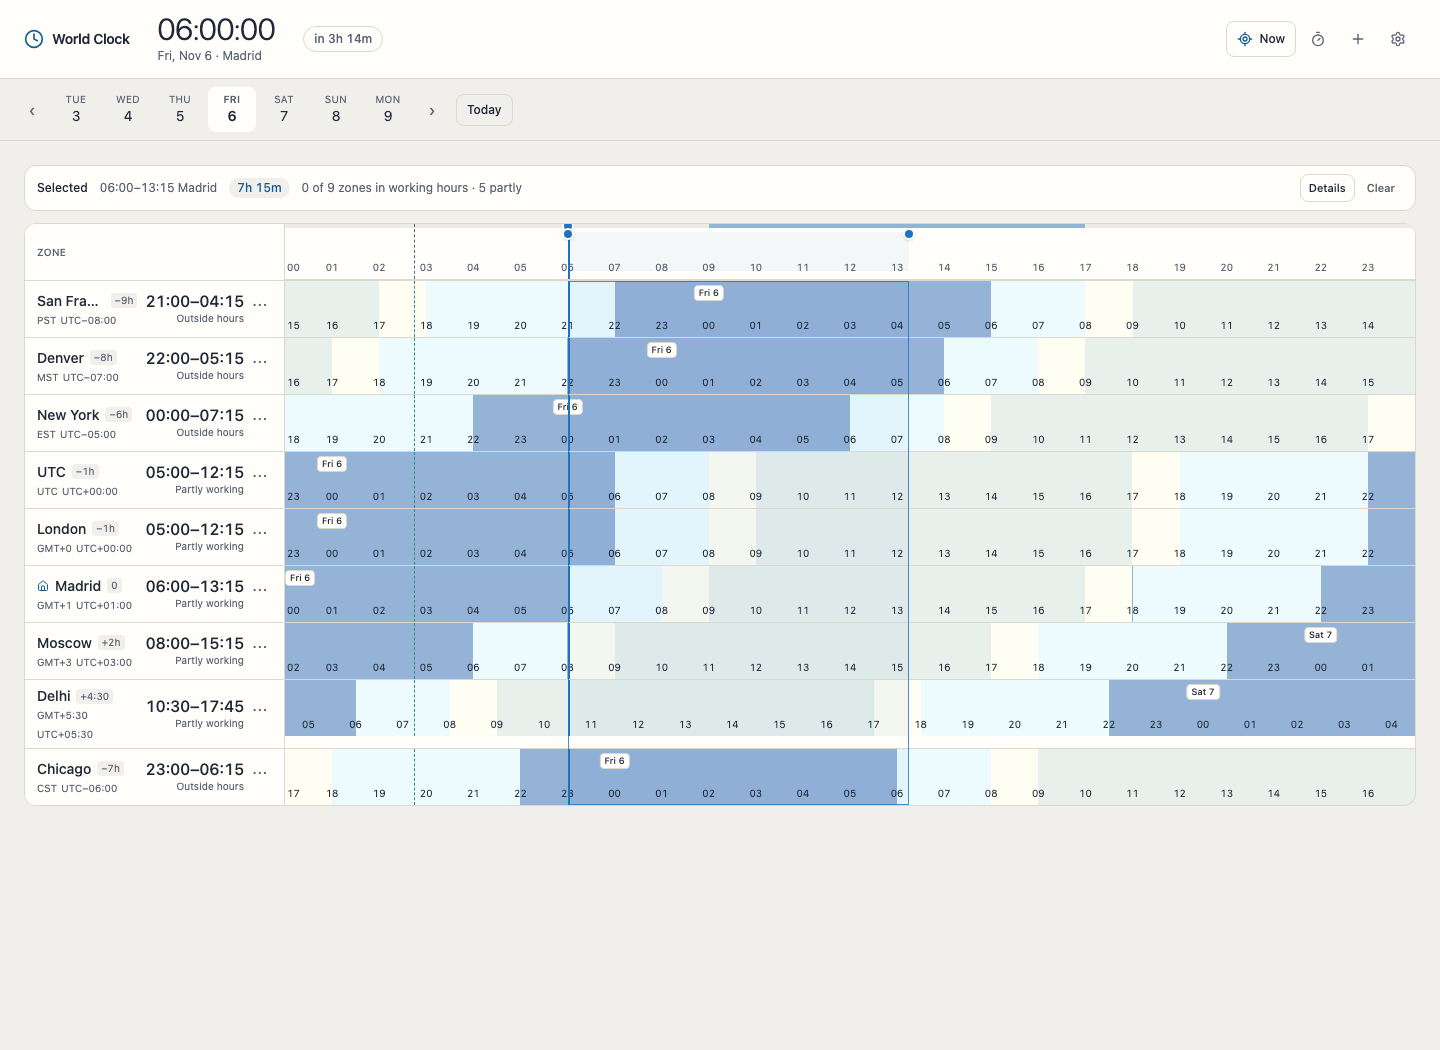
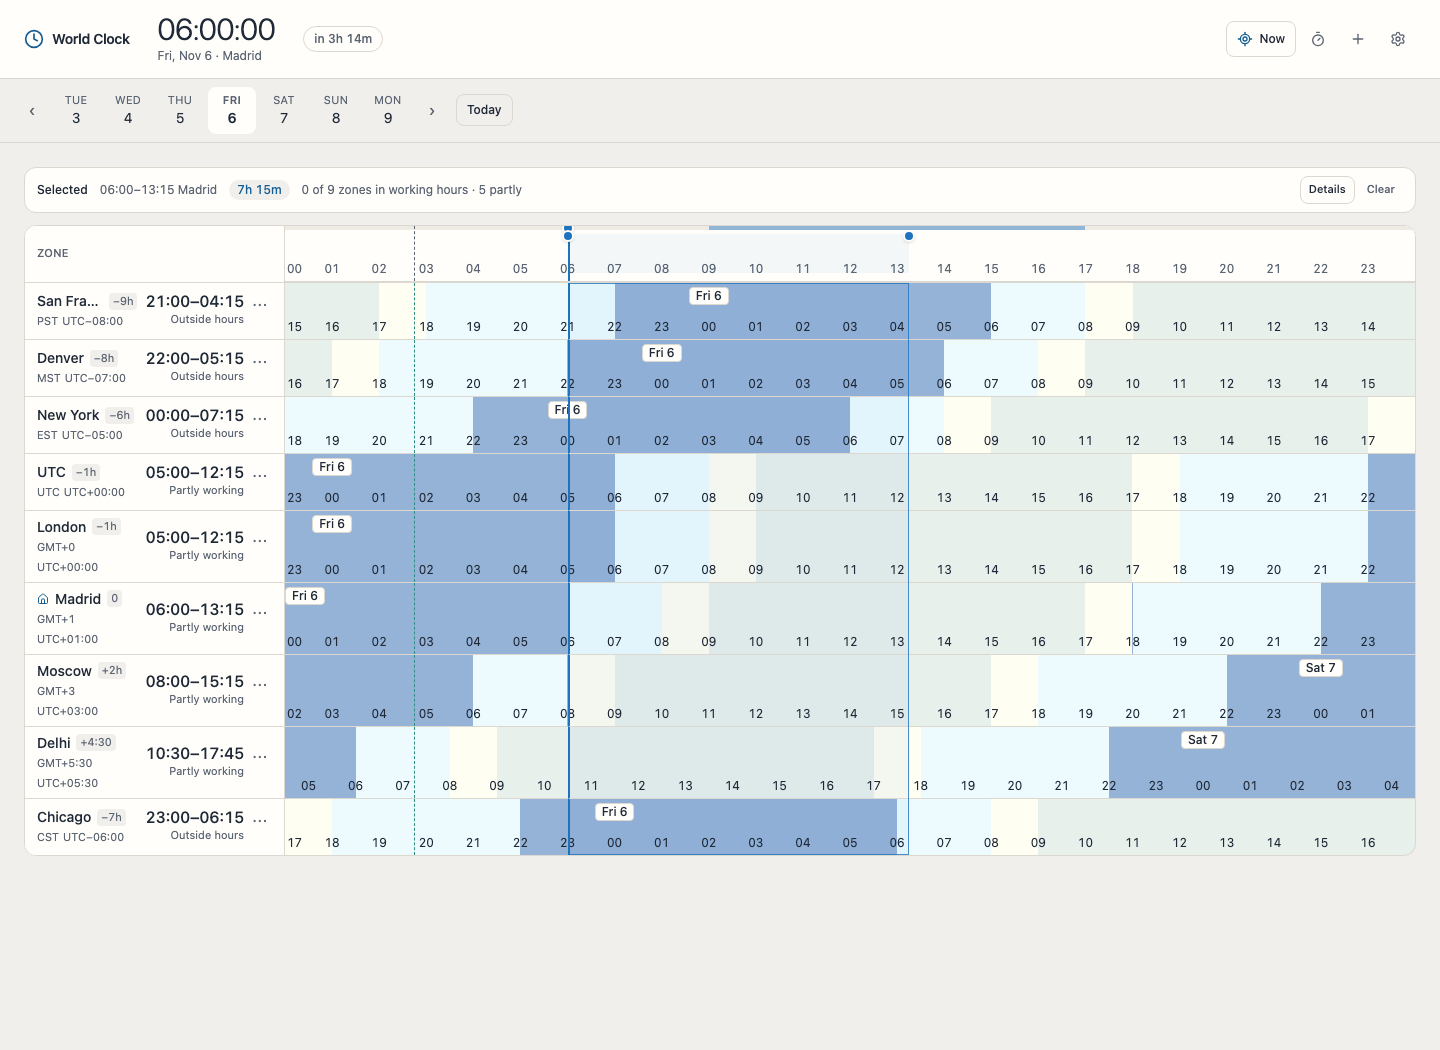
fix: enlarge timeline labels and mobile row headers
Raise hour labels and day markers to 12px, and row metadata to 11px. On narrow screens, wrap the time block below the zone name, preserve enabled metadata, and stretch timelines to the full row height.

diff --git a/src/lib/components/ZoneRow.svelte b/src/lib/components/ZoneRow.svelte
@@ -95,10 +95,10 @@
 >
   <div
     role="gridcell"
-    class="border-border bg-surface-raised sticky left-0 z-20 flex w-[120px] shrink-0 items-center justify-between gap-2 border-r px-2 py-1.5 sm:w-[260px] sm:px-3"
+    class="border-border bg-surface-raised sticky left-0 z-20 flex w-[120px] shrink-0 flex-wrap content-center items-center justify-between gap-x-2 gap-y-0.5 border-r px-2 py-1.5 sm:w-[260px] sm:flex-nowrap sm:px-3"
     title={`${model.timeZone} · ${formatUtcOffset(model.offsetMinutes)}`}
   >
-    <div class="min-w-0">
+    <div class="w-full min-w-0 sm:w-auto sm:flex-1">
       <div class="flex items-center gap-1.5">
         {#if isHome}
           <House class="text-accent-text size-3 shrink-0" aria-hidden="true" />
@@ -106,13 +106,13 @@
         {/if}
         <span class="text-text truncate text-xs font-medium sm:text-sm">{model.label}</span>
         <span
-          class="bg-surface text-muted shrink-0 rounded px-1 text-[10px] tabular-nums"
+          class="bg-surface text-muted hidden shrink-0 rounded px-1 text-[11px] tabular-nums sm:inline-block"
           title={`UTC offset ${formatUtcOffset(model.offsetMinutes)}`}
         >
           {formatOffset(model.relativeOffsetMinutes)}
         </span>
       </div>
-      <div class="text-muted mt-0.5 flex flex-wrap items-center gap-1 text-[10px]">
+      <div class="text-muted mt-0.5 flex flex-wrap items-center gap-1 text-[11px]">
         {#if showAbbreviation}
           <span>{model.abbreviation}</span>
         {/if}
@@ -128,23 +128,29 @@
       </div>
     </div>
 
-    <div class="flex shrink-0 items-start gap-1">
-      <div class="text-right">
+    <div class="flex w-full shrink-0 items-start justify-between gap-1 sm:w-auto sm:justify-start">
+      <div
+        class="text-right max-sm:flex max-sm:flex-wrap max-sm:items-baseline max-sm:gap-x-1 max-sm:text-left"
+      >
         {#if rangeLabel !== null}
-          <div class="text-text text-sm leading-none font-medium tabular-nums sm:text-base">
+          <div
+            class="text-text text-sm leading-none font-medium tabular-nums max-sm:basis-full sm:text-base"
+          >
             {rangeLabel}
           </div>
           <div
-            class={`mt-0.5 text-[10px] ${rangeStatus === 'in' ? 'text-accent-text' : 'text-muted'}`}
+            class={`mt-0.5 text-[11px] max-sm:mt-0 ${rangeStatus === 'in' ? 'text-accent-text' : 'text-muted'}`}
           >
             {rangeStatusLabel}
           </div>
         {:else}
-          <div class="text-text text-base leading-none font-medium tabular-nums sm:text-lg">
+          <div
+            class="text-text text-base leading-none font-medium tabular-nums max-sm:basis-full sm:text-lg"
+          >
             {model.focusedTime}
           </div>
-          <div class="text-muted mt-0.5 text-[10px]">{model.focusedDate}</div>
-          <div class={`mt-0.5 text-[10px] ${statusClass}`}>{statusLabel}</div>
+          <div class="text-muted mt-0.5 text-[11px] max-sm:mt-0">{model.focusedDate}</div>
+          <div class={`mt-0.5 text-[11px] max-sm:mt-0 ${statusClass}`}>{statusLabel}</div>
         {/if}
       </div>
 
@@ -187,7 +193,7 @@
     role="gridcell"
     data-timeline
     data-row-timeline
-    class="border-border bg-band-night relative h-14 min-w-[720px] flex-1 overflow-hidden"
+    class="border-border bg-band-night relative min-h-14 min-w-[720px] flex-1 overflow-hidden"
   >
     {#each model.bands.base as band (band.start)}
       <div
@@ -231,7 +237,7 @@
     {#each model.hourLabels as label (label.position)}
       <div
         data-testid="hour-label"
-        class="text-band-text absolute bottom-1 z-10 px-0.5 text-[10px] tabular-nums"
+        class="text-band-text absolute bottom-1 z-10 px-0.5 text-xs tabular-nums"
         style={labelStyle(label.position)}
       >
         {label.label}
@@ -240,7 +246,8 @@
 
     {#each model.dayMarkers as marker (marker.position)}
       <div
-        class="border-border bg-band-marker text-band-marker-text absolute top-1 z-10 rounded border px-1 text-[9px] font-medium whitespace-nowrap"
+        data-testid="day-marker"
+        class="border-border bg-band-marker text-band-marker-text absolute top-1 z-10 rounded border px-1.5 text-xs font-medium whitespace-nowrap"
         style={labelStyle(marker.position)}
       >
         {marker.label}

diff --git a/e2e/world-clock.spec.ts b/e2e/world-clock.spec.ts
@@ -77,6 +77,13 @@ test('exports settings', async ({ page }) => {
 test('is usable on a narrow viewport without gesture conflicts', async ({ page }) => {
   await page.setViewportSize({ width: 390, height: 844 });
   await expect(page.getByTestId('board-scroll')).toBeVisible();
+  await expect(page.getByTestId('row-America/New_York').getByText('New York')).toBeVisible();
+  await expect(page.getByTestId('row-America/New_York').getByText('EST')).toBeVisible();
+  const rowHeights = await page.getByTestId('row-America/New_York').evaluate((row) => ({
+    row: row.getBoundingClientRect().height,
+    timeline: row.querySelector('[data-row-timeline]')?.getBoundingClientRect().height ?? 0,
+  }));
+  expect(Math.abs(rowHeights.row - rowHeights.timeline)).toBeLessThanOrEqual(1);
   const ruler = page.getByTestId('ruler-surface');
   const box = await ruler.boundingBox();
   if (!box) throw new Error('ruler missing');
@@ -361,4 +368,22 @@ test('keeps light theme readable while the OS is dark', async ({ page }) => {
   expect(
     results.violations.filter((v) => v.impact === 'serious' || v.impact === 'critical'),
   ).toEqual([]);
+});
+
+test('keeps timeline hour and date labels readable', async ({ page }) => {
+  await expect(page.getByText('New York')).toBeVisible();
+  const sizes = await page.evaluate(() => {
+    const fontSize = (selector: string): number | null => {
+      const element = document.querySelector(selector);
+      return element ? Number.parseFloat(getComputedStyle(element).fontSize) : null;
+    };
+    return {
+      rulerHour: fontSize('[data-testid="ruler-surface"] [data-testid="hour-label"]'),
+      rowHour: fontSize('[data-testid="row-Europe/Madrid"] [data-testid="hour-label"]'),
+      dayMarker: fontSize('[data-testid="row-Europe/Madrid"] [data-testid="day-marker"]'),
+    };
+  });
+  expect(sizes.rulerHour).toBeGreaterThanOrEqual(12);
+  expect(sizes.rowHour).toBeGreaterThanOrEqual(12);
+  expect(sizes.dayMarker).toBeGreaterThanOrEqual(12);
 });

diff --git a/src/lib/components/Board.svelte b/src/lib/components/Board.svelte
@@ -199,7 +199,7 @@
       <div role="row" class="border-border bg-surface-raised sticky top-0 z-30 flex border-b">
         <div
           role="columnheader"
-          class="border-border text-muted flex w-[120px] shrink-0 items-center border-r px-2 text-[10px] font-medium tracking-wide uppercase sm:w-[260px] sm:px-3"
+          class="border-border text-muted flex w-[120px] shrink-0 items-center border-r px-2 text-[11px] font-medium tracking-wide uppercase sm:w-[260px] sm:px-3"
         >
           Zone
         </div>

diff --git a/src/lib/components/DayStrip.svelte b/src/lib/components/DayStrip.svelte
@@ -59,7 +59,7 @@
       class:bg-surface-raised={date === viewDate}
       class:font-semibold={date === viewDate}
     >
-      <span class="text-muted text-[10px] tracking-wide uppercase">{weekdayShort(date)}</span>
+      <span class="text-muted text-[11px] tracking-wide uppercase">{weekdayShort(date)}</span>
       <span class="text-text text-sm tabular-nums">{dayNumber(date)}</span>
     </button>
   {/each}

diff --git a/src/lib/components/Ruler.svelte b/src/lib/components/Ruler.svelte
@@ -199,7 +199,7 @@
   {#each axis.ticks as tick (tick.instantMs)}
     <div
       data-testid="hour-label"
-      class="text-muted absolute bottom-1 px-0.5 text-[10px] tabular-nums"
+      class="text-muted absolute bottom-1 px-0.5 text-xs tabular-nums"
       style={labelStyle(tick.position)}
     >
       {tick.label}

diff --git a/docs/architecture.md b/docs/architecture.md
@@ -83,6 +83,8 @@ Import replaces the current document only after confirmation. Export includes
   and flipped or clamped to stay inside the viewport.
 - Focus/now lines and range fills render in the ruler and every row. A hover
   overlay follows the cursor without changing selection.
+- On narrow screens the row header wraps the time block below the zone name;
+  timeline labels stay legible instead of shrinking.
 - Display settings control abbreviation, exact offset, DST badge, IANA name,
   date labels, and work bands.
 - Keyboard shortcuts are global except in text fields or open dialogs.

diff --git a/AGENTS.md b/AGENTS.md
@@ -87,6 +87,8 @@ docs/architecture.md  current design
 - Display toggles must change the rendered row, not only stored state.
 - Keep keyboard shortcuts working outside inputs and open dialogs.
 - Test with axe; do not introduce color-only status.
+- Keep timeline hour labels and day markers at 12px or larger; row metadata
+  is at least 11px.
 - Respect `prefers-reduced-motion`.
 
 ## Testing
